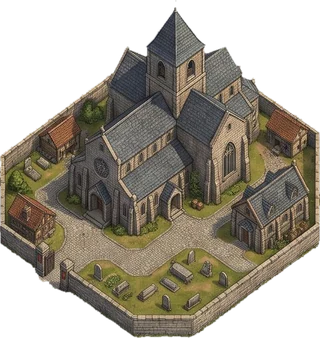
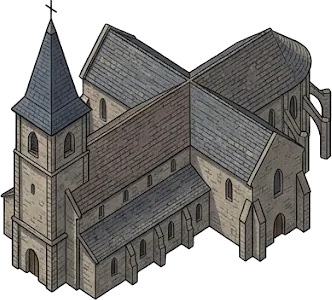
v0.92.48 : nouvelles images de l'église (3 niveaux)
Images fournies, détourées : petite église en bois, église de pierre et grande cathédrale (la version avec
la flèche). Tailles sur la carte ajustées (2.7, 3.4 et 4 cases).

Claude-Session: https://claude.ai/code/session_01ThAJAhzQCU9J3QinbMEDkL

diff --git a/js/config.js b/js/config.js
@@ -401,9 +401,9 @@ const IMPERIAL = {
 // faith = Croyance apportée au royaume (les églises s'additionnent).
 const CHURCH_LEVELS = [
   null,
-  { name: 'Église',        slots: 1, castles: 0, faith: 10, radius: 7,  img: 'img/eglise1.webp', size: 2.6 },
-  { name: 'Grande église', slots: 2, castles: 1, faith: 30, radius: 8,  img: 'img/eglise2.webp', size: 3,   upgradeCost: 800 },
-  { name: 'Cathédrale',    slots: 5, castles: 2, faith: 50, radius: 10, img: 'img/eglise3.webp', size: 3.4, upgradeCost: 2000 },
+  { name: 'Église',        slots: 1, castles: 0, faith: 10, radius: 7,  img: 'img/eglise1.webp', size: 2.7 },
+  { name: 'Grande église', slots: 2, castles: 1, faith: 30, radius: 8,  img: 'img/eglise2.webp', size: 3.4,   upgradeCost: 800 },
+  { name: 'Cathédrale',    slots: 5, castles: 2, faith: 50, radius: 10, img: 'img/eglise3.webp', size: 4, upgradeCost: 2000 },
 ];
 
 // Les 3 niveaux du port. Il se construit au bord de la mer ou d'un fleuve, n'est pas défendu

diff --git a/README.md b/README.md
@@ -669,6 +669,7 @@ ce sont de grandes taches (environ 15 % des plaines et forêts) ; sur la carte *
 
 ## 🆕 Nouveautés
 
+- **v0.92.48** : ⛪ nouvelles images pour les 3 niveaux de l'église : la petite église en bois, l'église de pierre et la grande cathédrale (avec sa flèche)
 - **v0.92.47** : 🎨 nouvelles images : l'avant-poste (un camp de tentes dans une palissade ronde, avec tour de guet et feu de camp), les 2 niveaux du moulin (moulin à vent de bois, puis de pierre avec ses annexes) et les 3 niveaux du port (petit port de pêcheur, port de commerce de pierre, grand port de commerce médiéval avec son phare et son fort)
 - **v0.92.46** : ⚔ nouvelles images pour les 3 niveaux de la caserne : la petite caserne de bois (palissade et toits de chaume), la caserne de pierre et de bois (colombages, enceinte de pierre) et la grande bâtisse de la guilde des guerriers (tours, remparts et cour d'entraînement)
 - **v0.92.45** : 🐉 carte **Azeroth** refaite : 700 x 550, telle qu'au temps du Norfendre (Kalimdor, les Royaumes de l'Est et le Norfendre, sans les îles venues après), aux côtes bien plus détaillées
